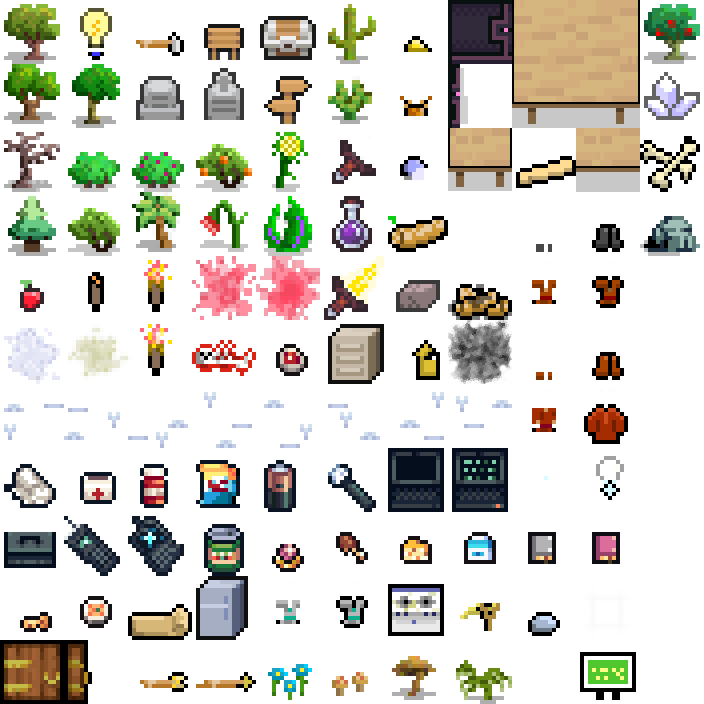
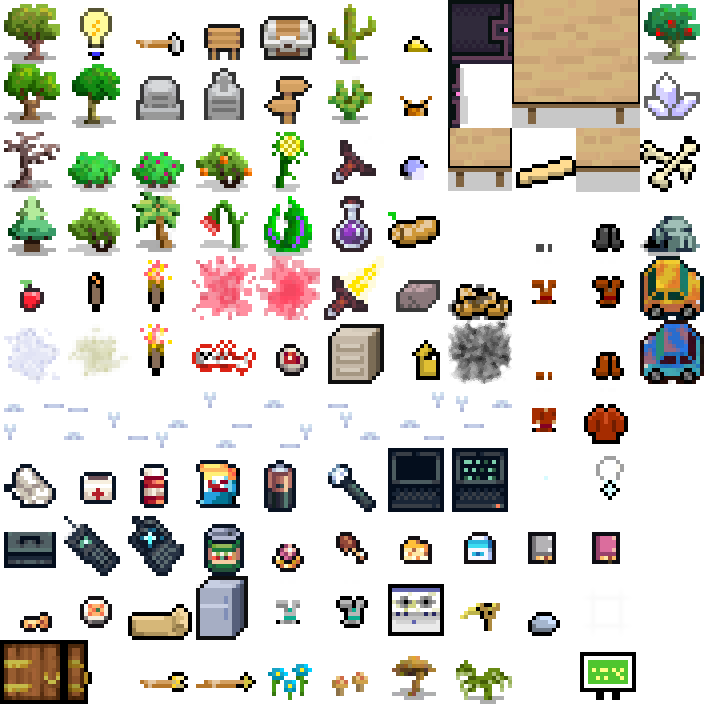
wrecked cars

Changed region(s): [[0.9062, 0.3438, 1.0, 0.5625], [0.5312, 0.2812, 0.6562, 0.375]]

diff --git a/src/main/kotlin/world/gen/cartos/WorldCarto.kt b/src/main/kotlin/world/gen/cartos/WorldCarto.kt
@@ -5,6 +5,7 @@ import audio.Speaker
 import things.Bonepile
 import things.Glowstone
 import things.Trunk
+import things.WreckedCar
 import util.*
 import world.*
 import world.gen.NoisePatches
@@ -14,6 +15,7 @@ import world.gen.biomes.Blank
 import world.gen.biomes.Ocean
 import world.level.CHUNK_SIZE
 import world.level.Level
+import world.terrains.Highway
 import world.terrains.Terrain
 import world.terrains.Terrain.Type.*
 import java.lang.Float.max
@@ -40,6 +42,7 @@ class WorldCarto(
 
     val cavePortalChance = 0.5f
     val ruinTreasureChance = 0.4f
+    val roadCarChance = 0.5f
 
     enum class CellFlag { NO_PLANTS, NO_BUILDINGS, TRAIL, RIVER, RIVERBANK, OCEAN, BEACH }
 
@@ -86,6 +89,7 @@ class WorldCarto(
             // Populate!
             buildFertilityMap()
             growPlants()
+            meta.biome.populateExtra(this)
 
             // Post-processing
             deepenWater()
@@ -350,6 +354,7 @@ class WorldCarto(
                 }
             }
         }
+        if (meta.roadExits.isEmpty()) return
         val mid = CHUNK_SIZE/2
         val end = CHUNK_SIZE-1
         meta.roadExits.forEach { exit ->
@@ -358,6 +363,19 @@ class WorldCarto(
                 SOUTH -> drawLine(XY(mid, mid), XY(mid,end)) { x,y -> buildRoadCell(x,y,exit.width,true) }
                 WEST -> drawLine(XY(0,mid+1), XY(mid, mid+1)) { x,y -> buildRoadCell(x,y,exit.width,false) }
                 EAST -> drawLine(XY(mid, mid+1), XY(end, mid+1)) { x,y -> buildRoadCell(x,y,exit.width,false) }
+            }
+        }
+        if (Dice.chance(roadCarChance)) {
+            repeat (Dice.oneTo(3)) {
+                var placed = false
+                while (!placed) {
+                    val tx = Dice.range(x0, x1)
+                    val ty = Dice.range(y0, y1)
+                    if (Terrain.get(getTerrain(tx, ty)) is Highway) {
+                        addThing(tx, ty, WreckedCar())
+                        placed = true
+                    }
+                }
             }
         }
     }
@@ -369,8 +387,7 @@ class WorldCarto(
             val along = Dice.range(2, CHUNK_SIZE/2-2)
             val width = Dice.range(4, 10)
             val height = Dice.range(4, 10)
-            val ruinEdge = meta.roadExits.random().edge
-            when (ruinEdge) {
+            when (meta.roadExits.random().edge) {
                 NORTH -> buildRuin(mid + offset + width * (if (offset<0) -1 else 0), along, width, height)
                 SOUTH -> buildRuin(mid + offset + width * (if (offset<0) -1 else 0), CHUNK_SIZE-along, width, height)
                 WEST -> buildRuin(along, mid + offset + width * (if (offset<0) -1 else 0), width, height)

diff --git a/src/main/kotlin/world/gen/biomes/Ruins.kt b/src/main/kotlin/world/gen/biomes/Ruins.kt
@@ -5,11 +5,12 @@ import kotlinx.serialization.Serializable
 import render.tilesets.Glyph
 import things.Bonepile
 import things.Trunk
+import things.WreckedCar
 import util.Dice
 import world.gen.NoisePatches
 import world.gen.cartos.WorldCarto
 import world.level.CHUNK_SIZE
-import world.terrains.Terrain
+import world.terrains.*
 
 @Serializable
 object Ruins : Biome(
@@ -17,6 +18,7 @@ object Ruins : Biome(
     Terrain.Type.TERRAIN_PAVEMENT
 ) {
     private const val ruinTreasureChance = 0.5f
+    private fun wreckedCarCount() = Dice.oneTo(4)
 
     override fun defaultTitle() = "urban ruins"
     override fun ambientSoundDay() = Speaker.Ambience.RUINS
@@ -108,6 +110,21 @@ object Ruins : Biome(
                 if (carto.boundsCheck(tx,ty) && carto.isWalkableAt(tx,ty)) {
                     val treasure = if (Dice.chance(0.25f)) Trunk() else Bonepile()
                     carto.addThing(tx, ty, treasure)
+                    placed = true
+                }
+            }
+        }
+    }
+
+    override fun populateExtra(carto: WorldCarto) {
+        repeat (wreckedCarCount()) {
+            var placed = false
+            while (!placed) {
+                val tx = Dice.range(carto.x0, carto.x1)
+                val ty = Dice.range(carto.y0, carto.y1)
+                val t = Terrain.get(carto.getTerrain(tx, ty))
+                if (t is HighwayH || t is HighwayV || t is Pavement) {
+                    carto.addThing(tx, ty, WreckedCar())
                     placed = true
                 }
             }

diff --git a/src/main/kotlin/things/Container.kt b/src/main/kotlin/things/Container.kt
@@ -168,3 +168,28 @@ class Bonepile : Container() {
         else -> Torch()
     }
 }
+
+@Serializable
+class WreckedCar : Container() {
+    override fun name() = "wrecked vehicle"
+    override fun description() = "The hulk of a rusty metal wagon."
+    override fun glyph() = Glyph.WRECKED_CAR
+    override fun isPortable() = false
+    override fun openVerb() = "search"
+    override fun isEmptyMsg() = "You find nothing useful in the vehicle."
+
+    override fun randomTreasureCount() = Dice.zeroTo(1)
+    override fun randomTreasure() = when (Dice.zeroTo(10)) {
+        0 -> BoysLife()
+        1 -> Lighter()
+        2 -> HardHat()
+        3 -> Axe()
+        4 -> Pickaxe()
+        5 -> Bandages()
+        6 -> FirstAidKit()
+        7 -> RiotHelmet()
+        8 -> TravelBoots()
+        9 -> Paperback()
+        else -> Torch()
+    }
+}

diff --git a/src/main/kotlin/world/gen/biomes/Biome.kt b/src/main/kotlin/world/gen/biomes/Biome.kt
@@ -31,6 +31,7 @@ sealed class Biome(
     open fun fertilityAt(x: Int, y: Int) = NoisePatches.get("plantsBasic", x, y).toFloat()
     open fun postBlendProcess(carto: WorldCarto, dir: Rect) { }
     open fun carveExtraTerrain(carto: WorldCarto) { }
+    open fun populateExtra(carto: WorldCarto) { }
 
     protected fun setTerrain(carto: WorldCarto, x: Int, y: Int, type: Terrain.Type) {
         if (carto.boundsCheck(x + carto.x0, y + carto.y0)) {

diff --git a/src/main/kotlin/render/tilesets/ThingTileSet.kt b/src/main/kotlin/render/tilesets/ThingTileSet.kt
@@ -138,4 +138,8 @@ fun ThingTileSet() =
         setTile(Glyph.GLOWING_CRYSTAL, SimpleTile(this, 10, 1))
         setTile(Glyph.BONEPILE, SimpleTile(this, 10, 2))
         setTile(Glyph.BOULDER, SimpleTile(this, 10, 3))
+        setTile(Glyph.WRECKED_CAR, VariantsTile(this).apply {
+            add(0.5f, 10, 4)
+            add(0.5f, 10, 5)
+        })
     }

diff --git a/src/main/kotlin/render/tilesets/Glyph.kt b/src/main/kotlin/render/tilesets/Glyph.kt
@@ -181,6 +181,7 @@ enum class Glyph {
     GLOWING_CRYSTAL,
     BONEPILE,
     BOULDER,
+    WRECKED_CAR,
 
     BLOODSTAIN,
     SCORCHMARK,

diff --git a/src/main/kotlin/render/tilesets/TerrainTileSet.kt b/src/main/kotlin/render/tilesets/TerrainTileSet.kt
@@ -228,4 +228,5 @@ fun TerrainTileSet() =
             add(0.5f, 10, 8)
             add(0.5f, 10, 9)
         })
+
     }
